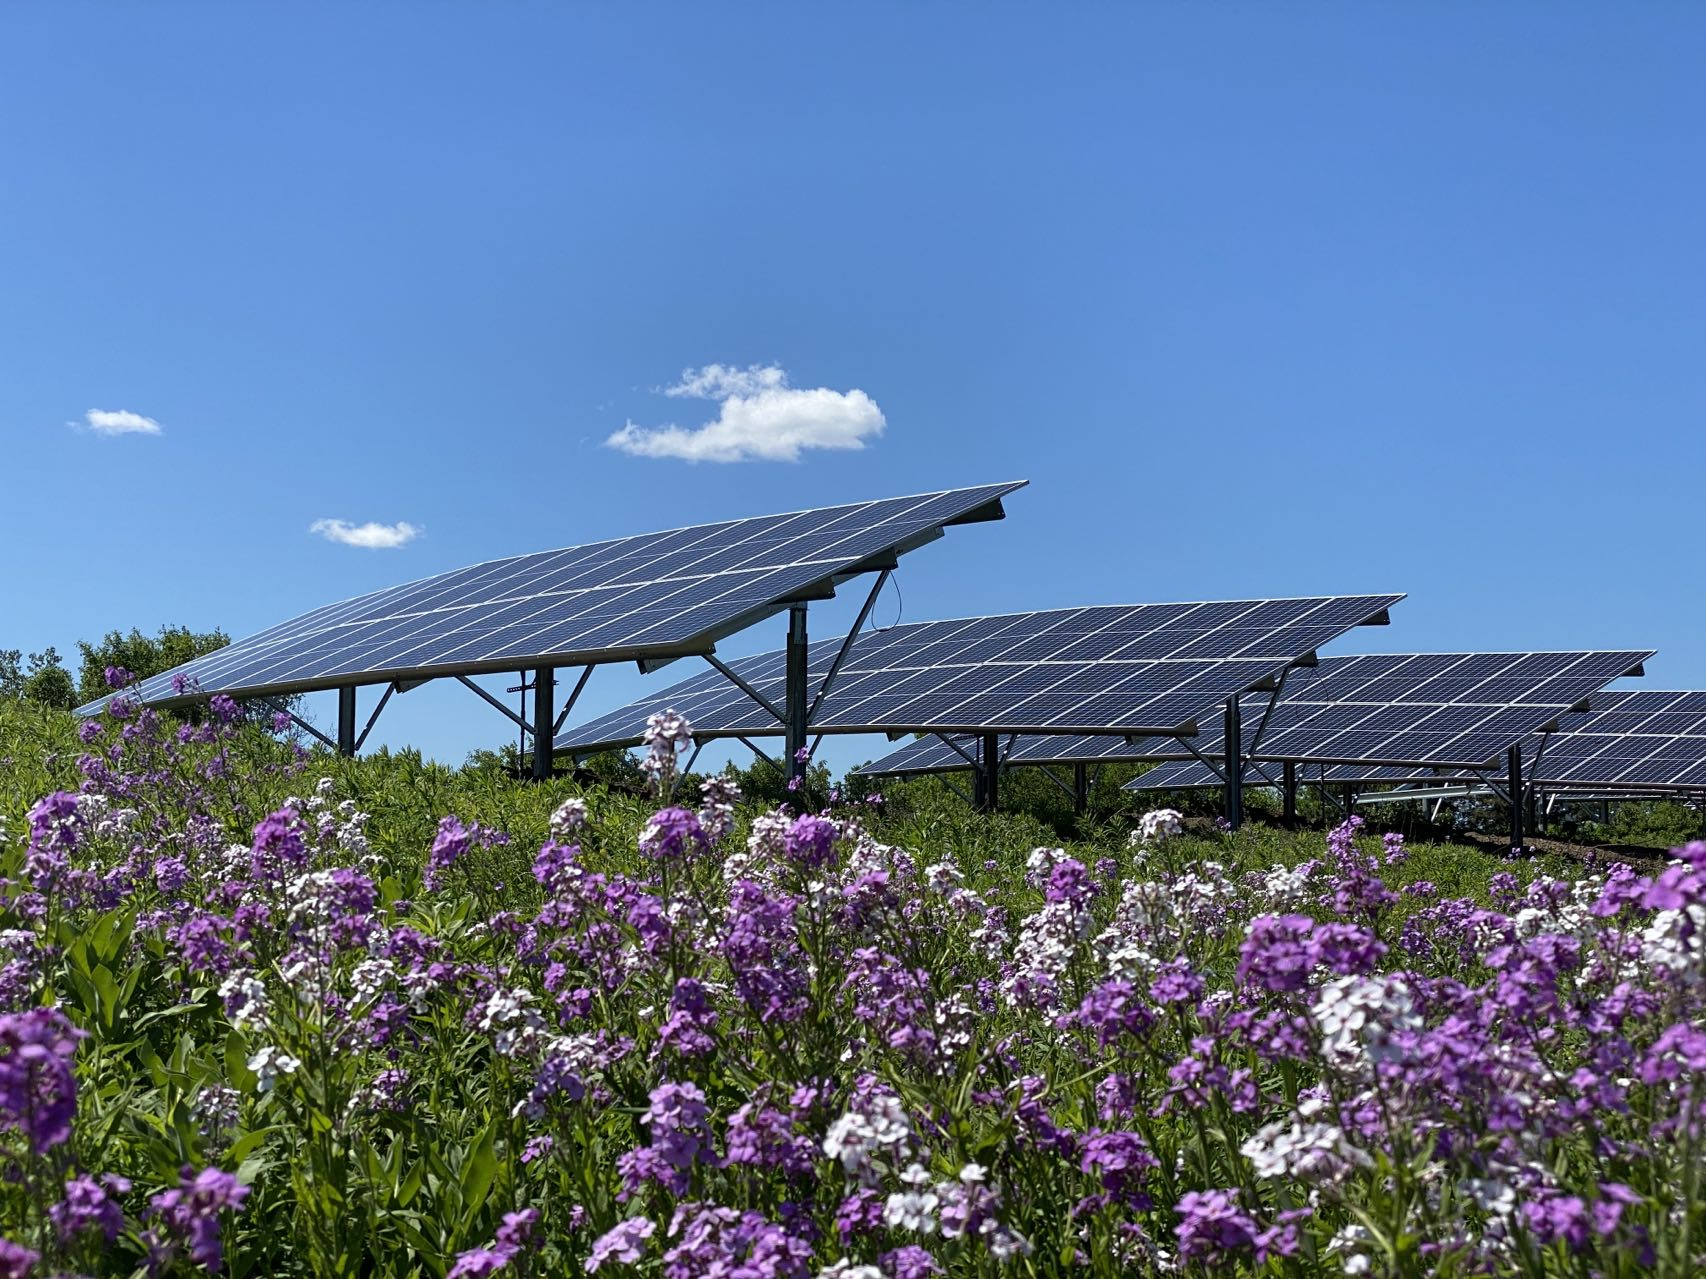
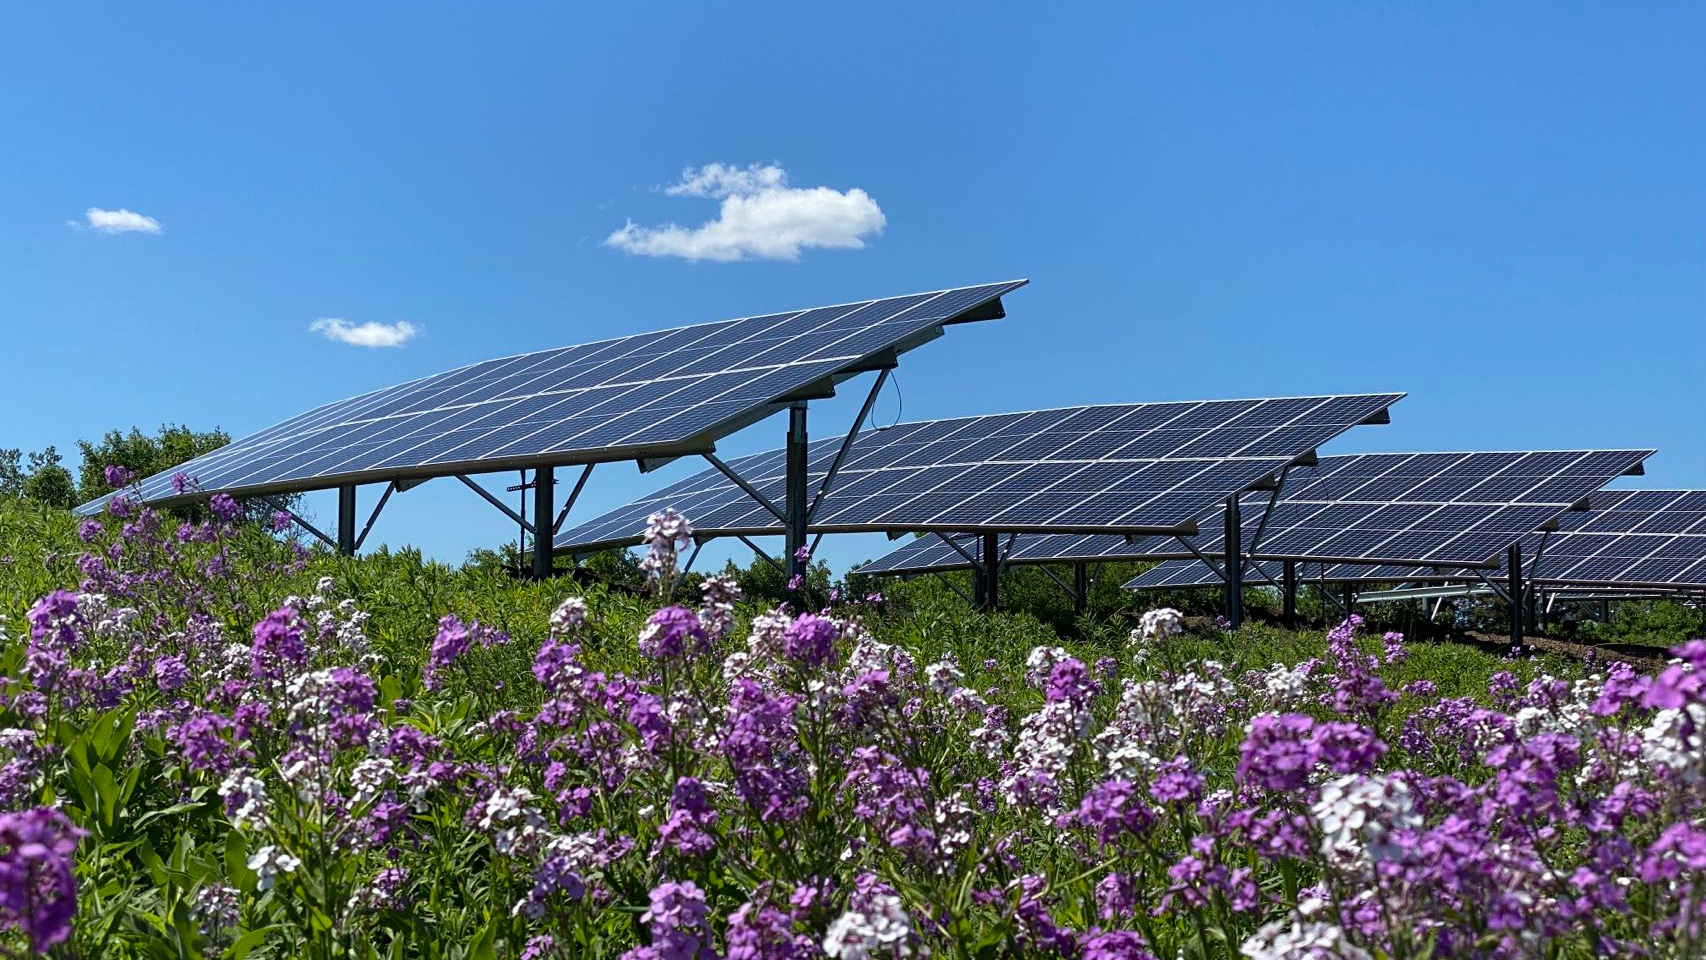
update

diff --git a/docs/research/power-systems-carbon-neutrality/index.html b/docs/research/power-systems-carbon-neutrality/index.html
@@ -6,8 +6,9 @@
 
 <meta name="viewport" content="width=device-width, initial-scale=1.0, user-scalable=yes">
 
+<meta name="description" content="Clean power system transition">
 
-<title>Deep Policy Lab - People</title>
+<title>Deep Policy Lab - Power Systems Carbon Neutrality</title>
 <style>
 code{white-space: pre-wrap;}
 span.smallcaps{font-variant: small-caps;}
@@ -23,22 +24,22 @@ ul.task-list li input[type="checkbox"] {
 </style>
 
 
-<script src="site_libs/quarto-nav/quarto-nav.js"></script>
-<script src="site_libs/quarto-nav/headroom.min.js"></script>
-<script src="site_libs/clipboard/clipboard.min.js"></script>
-<script src="site_libs/quarto-search/autocomplete.umd.js"></script>
-<script src="site_libs/quarto-search/fuse.min.js"></script>
-<script src="site_libs/quarto-search/quarto-search.js"></script>
-<meta name="quarto:offset" content="./">
-<script src="site_libs/quarto-html/quarto.js"></script>
-<script src="site_libs/quarto-html/popper.min.js"></script>
-<script src="site_libs/quarto-html/tippy.umd.min.js"></script>
-<script src="site_libs/quarto-html/anchor.min.js"></script>
-<link href="site_libs/quarto-html/tippy.css" rel="stylesheet">
-<link href="site_libs/quarto-html/quarto-syntax-highlighting.css" rel="stylesheet" id="quarto-text-highlighting-styles">
-<script src="site_libs/bootstrap/bootstrap.min.js"></script>
-<link href="site_libs/bootstrap/bootstrap-icons.css" rel="stylesheet">
-<link href="site_libs/bootstrap/bootstrap.min.css" rel="stylesheet" id="quarto-bootstrap" data-mode="light">
+<script src="../../site_libs/quarto-nav/quarto-nav.js"></script>
+<script src="../../site_libs/quarto-nav/headroom.min.js"></script>
+<script src="../../site_libs/clipboard/clipboard.min.js"></script>
+<script src="../../site_libs/quarto-search/autocomplete.umd.js"></script>
+<script src="../../site_libs/quarto-search/fuse.min.js"></script>
+<script src="../../site_libs/quarto-search/quarto-search.js"></script>
+<meta name="quarto:offset" content="../../">
+<script src="../../site_libs/quarto-html/quarto.js"></script>
+<script src="../../site_libs/quarto-html/popper.min.js"></script>
+<script src="../../site_libs/quarto-html/tippy.umd.min.js"></script>
+<script src="../../site_libs/quarto-html/anchor.min.js"></script>
+<link href="../../site_libs/quarto-html/tippy.css" rel="stylesheet">
+<link href="../../site_libs/quarto-html/quarto-syntax-highlighting.css" rel="stylesheet" id="quarto-text-highlighting-styles">
+<script src="../../site_libs/bootstrap/bootstrap.min.js"></script>
+<link href="../../site_libs/bootstrap/bootstrap-icons.css" rel="stylesheet">
+<link href="../../site_libs/bootstrap/bootstrap.min.css" rel="stylesheet" id="quarto-bootstrap" data-mode="light">
 <script id="quarto-search-options" type="application/json">{
   "location": "navbar",
   "copy-button": false,
@@ -69,12 +70,14 @@ gtag('config', 'G-TEC97F8RGK', { 'anonymize_ip': true});
 </script>
 
 
-<link rel="stylesheet" href="styles.css">
-<meta property="og:title" content="Deep Policy Lab - People">
-<meta property="og:image" content="https://drganghe.github.io/files/gang-he-profile.jpeg">
+<link rel="stylesheet" href="../../styles.css">
+<meta property="og:title" content="Deep Policy Lab - Power Systems Carbon Neutrality">
+<meta property="og:description" content="Clean power system transition">
+<meta property="og:image" content="http://deeppolicylab.github.io/research/power-systems-carbon-neutrality/featured.jpeg">
 <meta property="og:site-name" content="Deep Policy Lab">
-<meta name="twitter:title" content="Deep Policy Lab - People">
-<meta name="twitter:image" content="https://drganghe.github.io/files/gang-he-profile.jpeg">
+<meta name="twitter:title" content="Deep Policy Lab - Power Systems Carbon Neutrality">
+<meta name="twitter:description" content="Clean power system transition">
+<meta name="twitter:image" content="http://deeppolicylab.github.io/research/power-systems-carbon-neutrality/featured.jpeg">
 <meta name="twitter:card" content="summary_large_image">
 </head>
 
@@ -85,7 +88,7 @@ gtag('config', 'G-TEC97F8RGK', { 'anonymize_ip': true});
     <nav class="navbar navbar-expand-lg navbar-dark ">
       <div class="navbar-container container-fluid">
       <div class="navbar-brand-container">
-    <a class="navbar-brand" href="./index.html">
+    <a class="navbar-brand" href="../../index.html">
     <span class="navbar-title">Deep Policy Lab</span>
     </a>
   </div>
@@ -96,19 +99,19 @@ gtag('config', 'G-TEC97F8RGK', { 'anonymize_ip': true});
           <div class="collapse navbar-collapse" id="navbarCollapse">
             <ul class="navbar-nav navbar-nav-scroll me-auto">
   <li class="nav-item">
-    <a class="nav-link" href="./about.html" rel="" target="">
+    <a class="nav-link" href="../../about.html" rel="" target="">
  <span class="menu-text">About</span></a>
   </li>  
   <li class="nav-item">
-    <a class="nav-link active" href="./people.html" rel="" target="" aria-current="page">
+    <a class="nav-link" href="../../people.html" rel="" target="">
  <span class="menu-text">People</span></a>
   </li>  
   <li class="nav-item">
-    <a class="nav-link" href="./research.html" rel="" target="">
+    <a class="nav-link" href="../../research.html" rel="" target="">
  <span class="menu-text">Research</span></a>
   </li>  
   <li class="nav-item">
-    <a class="nav-link" href="./support.html" rel="" target="">
+    <a class="nav-link" href="../../support.html" rel="" target="">
  <span class="menu-text">Support</span></a>
   </li>  
 </ul>
@@ -144,9 +147,8 @@ gtag('config', 'G-TEC97F8RGK', { 'anonymize_ip': true});
     <h2 id="toc-title">On this page</h2>
    
   <ul>
-  <li><a href="#director" id="toc-director" class="nav-link active" data-scroll-target="#director">Director</a></li>
-  <li><a href="#researchers" id="toc-researchers" class="nav-link" data-scroll-target="#researchers">Researchers</a></li>
-  <li><a href="#collaborators" id="toc-collaborators" class="nav-link" data-scroll-target="#collaborators">Collaborators</a></li>
+  <li><a href="#overview" id="toc-overview" class="nav-link active" data-scroll-target="#overview">Overview</a></li>
+  <li><a href="#featured-publications" id="toc-featured-publications" class="nav-link" data-scroll-target="#featured-publications">Featured publications</a></li>
   </ul>
 </nav>
     </div>
@@ -155,9 +157,14 @@ gtag('config', 'G-TEC97F8RGK', { 'anonymize_ip': true});
 
 <header id="title-block-header" class="quarto-title-block default">
 <div class="quarto-title">
-<h1 class="title">People</h1>
+<h1 class="title">Power Systems Carbon Neutrality</h1>
 </div>
 
+<div>
+  <div class="description">
+    Clean power system transition
+  </div>
+</div>
 
 
 <div class="quarto-title-meta">
@@ -170,95 +177,27 @@ gtag('config', 'G-TEC97F8RGK', { 'anonymize_ip': true});
 
 </header>
 
-<section id="director" class="level2">
-<h2 class="anchored" data-anchor-id="director">Director</h2>
-<div class="grid">
-<!--Lecture 1-2-->
-<div class="g-col-12 g-col-md-4">
-<p><img src="https://drganghe.github.io/files/gang-he-profile.jpeg" class="img-fluid"></p>
-<center>
-<a href="https://drganghe.github.io">Gang He</a>
-</center>
-</div>
-</div>
+<p><img src="featured.jpeg" class="img-fluid"></p>
+<section id="overview" class="level2">
+<h2 class="anchored" data-anchor-id="overview">Overview</h2>
+<p>Electrifying energy, and decarbonizing electricity. Power system is at the center of global energy transtion. This research theme explores the pathways and their environmental, climate, human health, and socio-economic implications.</p>
 </section>
-<section id="researchers" class="level2">
-<h2 class="anchored" data-anchor-id="researchers">Researchers</h2>
-<div class="grid">
-<!--Lecture 1-2-->
-<div class="g-col-12 g-col-md-4">
-<p><img src="./files/images/we-need-you.png" class="img-fluid"></p>
-<center>
-<a href="https://drganghe.github.io/posts/2023-05-post-doc-supply-chain-power-system-environment-human-health/">You</a>
-</center>
-</div>
-</div>
-</section>
-<section id="collaborators" class="level2">
-<h2 class="anchored" data-anchor-id="collaborators">Collaborators</h2>
-<div class="grid">
-<div class="g-col-12 g-col-md-4">
-<div class="quarto-figure quarto-figure-center">
-<figure class="figure">
-<p><img src="https://gps.ucsd.edu/_images/people/faculty/faculty_davidson.jpg" style="height:2.77778in" class="figure-img"></p>
-</figure>
-</div>
-<center>
-<a href="https://gps.ucsd.edu/faculty-directory/michael-davidson.html">Michael Davidson</a>
-</center>
-</div>
-<div class="g-col-12 g-col-md-4">
-<div class="quarto-figure quarto-figure-center">
-<figure class="figure">
-<p><img src="https://avatars.githubusercontent.com/u/9012994?v=4.png" style="height:2.77778in" class="figure-img"></p>
-</figure>
-</div>
-<center>
-<a href="https://www.jhelvy.com/">John Helveston</a>
-</center>
-</div>
-<div class="g-col-12 g-col-md-4">
-<div class="quarto-figure quarto-figure-center">
-<figure class="figure">
-<p><img src="https://eta-intranet.lbl.gov/sites/default/files/styles/staff_public_photo_336x_480/public/user-photos/dsc05635-edit.jpg?itok=mTRQ12QR" style="height:2.77778in" class="figure-img"></p>
-</figure>
-</div>
-<center>
-<a href="https://eta.lbl.gov/people/liqun-peng-0">Liqun Peng</a>
-</center>
-</div>
-</div>
-<!--
-## Advisors
-
-::: {.grid}
-
-::: {.g-col-12 .g-col-md-4}
-
-![](https://kammen.berkeley.edu/images/Kammen_solar.jpg){height="200pt" fig-align="center"}
-
-<center>[Daniel Kammen](https://kammen.berkeley.edu/)</center>
-
-:::
-
-::: {.g-col-12 .g-col-md-4}
-
-![](https://are.berkeley.edu/sites/are.berkeley.edu/files/styles/user_big_picture/public/pictures/picture-13749-1602716599.jpg?itok=i8mLR_AR){fig-align="center"}
-
-<center>[Jiang Lin](https://are.berkeley.edu/users/jiang-lin)</center>
-
-:::
-
-::: {.g-col-12 .g-col-md-4}
-
-![](https://cee.princeton.edu/sites/g/files/toruqf2216/files/styles/3x4_750w_1000h/public/people/mauzerall.jpg?itok=ilA0fH9K){height="200pt" fig-align="center"}
-
-<center>[Denise L. Mauzerall](https://mauzerall.scholar.princeton.edu/)</center>
-
-:::
-
-:::
+<section id="featured-publications" class="level2">
+<h2 class="anchored" data-anchor-id="featured-publications">Featured publications</h2>
+<p><strong>He, Gang</strong>*, Jiang Lin*, Froylan Sifuentes, Xu Liu, Nikit Abhyankar, and Amol Phadke*. 2020. <a href="https://www.nature.com/articles/s41467-020-16184-x">Rapid Cost Decrease of Renewables and Storage Accelerates the Decarbonization of China’s Power System</a>. <em>Nature Communications</em> 11 (1): 2486. doi: <a href="https://doi.org/10.1038/s41467-020-16184-x">10.1038/s41467-020-16184-x</a>. [<a href="https://www.nature.com/articles/s41467-020-16184-x.pdf">pdf</a>]</p>
+<p>Lin, Jiang*, Nikit Abhyankar, <strong>Gang He</strong>, Xu Liu, and Shengfei Yin. 2022. <a href="https://www.cell.com/iscience/fulltext/S2589-0042(22)00019-0">Large Balancing Areas and Dispersed Renewable Investment Enhances Grid Flexibility in a Renewable-Dominant Power System in China</a>. <em>iScience</em> 25(2): 103749. doi: <a href="https://doi.org/10.1016/j.isci.2022.103749">10.1016/j.isci.2022.103749</a>. [<a href="https://www.cell.com/action/showPdf?pii=S2589-0042%2822%2900019-0">pdf</a>]</p>
+<p>Li, Bo, Minyou Chen*, Ziming Ma, <strong>Gang He</strong>, Wei Dai, Dongran Liu, Chi Zhang, and Haiwang Zhong. 2022. <a href="../../posts/2022-04-ieeetia-hydrogen-integrated-power-and-transport/index.qmd">Modelling Integrated Power and Transportation Sectors Decarbonization with Hydrogen Energy Storage</a>. <em>IEEE Transactions on Industry Applications</em> 58(2): 2677–2693. doi: <a href="https://doi.org/10.1109/TIA.2021.3116916">10.1109/TIA.2021.3116916</a>. [<a href="https://drganghe.github.io/files/papers/2022-IEEE-ModelingIntegratedPowerAndTransportationSystems.pdf">pdf</a>]</p>
+<p><strong>He, Gang</strong>*, Anne-Perrine Avrin, James H. Nelson, Josiah Johnston, Ana Mileva, Jianwei Tian, and Daniel M. Kammen*. 2016. <a href="http://pubs.acs.org/doi/abs/10.1021/acs.est.6b01345">SWITCH-China:A Systems Approach to Decarbonizing China’s Power System</a>. <em>Environmental Science and Technology</em> 50(11): 5467–5473. doi: <a href="http://dx.doi.org/10.1021/acs.est.6b01345">10.1021/acs.est.6b01345</a>. [<a href="https://drganghe.github.io/files/papers/2016-EST-SWITCH-China.pdf">pdf</a>]</p>
+<!--Include social share buttons-->
+<!-- 
+AddToAny check more: https://www.addtoany.com/buttons/for/website 
+Using includes will make edits easier, will only need to add or remove button here if needed.
+https://quarto.org/docs/authoring/includes.html
 -->
+<div class="a2a_kit a2a_kit_size_32 a2a_default_style">
+<p><a class="a2a_dd" href="https://www.addtoany.com/share"></a> <a class="a2a_button_twitter"></a> <a class="a2a_button_linkedin"></a> <a class="a2a_button_mastodon"></a> <a class="a2a_button_facebook"></a> <a class="a2a_button_email"></a></p>
+</div>
+<script async="" src="https://static.addtoany.com/menu/page.js"></script>
 
 
 </section>

diff --git a/docs/research/clean-energy-supply-chains/index.html b/docs/research/clean-energy-supply-chains/index.html
@@ -148,6 +148,7 @@ gtag('config', 'G-TEC97F8RGK', { 'anonymize_ip': true});
    
   <ul>
   <li><a href="#overview" id="toc-overview" class="nav-link active" data-scroll-target="#overview">Overview</a></li>
+  <li><a href="#featured-publications" id="toc-featured-publications" class="nav-link" data-scroll-target="#featured-publications">Featured publications</a></li>
   </ul>
 </nav>
     </div>
@@ -179,8 +180,11 @@ gtag('config', 'G-TEC97F8RGK', { 'anonymize_ip': true});
 <p><img src="featured.jpeg" class="img-fluid"></p>
 <section id="overview" class="level2">
 <h2 class="anchored" data-anchor-id="overview">Overview</h2>
-<p>Achieving carbon neutrality requires deploying renewable energy at unprecedented speed and scale, yet countries sometimes implement decoupling policies that might impede continuous cost declining. International climate policy and renewable energy deployment policy now face a crossroads: continue relying on global supply chains, or pivot towards domestic technology development and production.</p>
-<p>This project will evaluate the carbon mitigation, air quality, and human health benefits achieved by global clean energy supply chains, using solar PV, a globally trade clean energy product, as an example. This project will be one of a series of evidence-based research and analysis to show the importance to maintain a sustainable and resilient clean energy global supply chains to achieve climate goals.</p>
+<p>This research theme aims at evidence-based analysis to understand the importance of a sustainable and resilient clean energy global supply chains to achieve climate goals. We evaluate the economic costs, carbon mitigation, air quality, and human health benefits achieved by global clean energy supply chains.</p>
+</section>
+<section id="featured-publications" class="level2">
+<h2 class="anchored" data-anchor-id="featured-publications">Featured publications</h2>
+<p>John Helveston, <strong>Gang He</strong>*, and Michael Davidson. 2022. <a href="https://www.nature.com/articles/s41586-022-05316-6">Quantifying the Cost Savings of Global Solar Photovoltaic Supply Chains</a>. <em>Nature</em> 612: 83–87. doi: <a href="https://doi.org/10.1038/s41586-022-05316-6">10.1038/s41586-022-05316-6</a>. [<a href="https://drganghe.github.io/files/papers/2022-nature-solar-supply-chains-preprint.pdf">pdf</a>]</p>
 <!--Include social share buttons-->
 <!-- 
 AddToAny check more: https://www.addtoany.com/buttons/for/website 

diff --git a/docs/research.html b/docs/research.html
@@ -105,11 +105,11 @@ gtag('config', 'G-TEC97F8RGK', { 'anonymize_ip': true});
 <link rel="stylesheet" href="styles.css">
 <link rel="alternate" type="application/rss+xml" title="Deep Policy Lab" href="research.xml"><meta property="og:title" content="Deep Policy Lab - Research">
 <meta property="og:description" content="What we do">
-<meta property="og:image" content="http://deeppolicylab.github.io/research/clean-energy-supply-chains/featured.jpeg">
+<meta property="og:image" content="http://deeppolicylab.github.io/research/power-systems-carbon-neutrality/featured.jpeg">
 <meta property="og:site-name" content="Deep Policy Lab">
 <meta name="twitter:title" content="Deep Policy Lab - Research">
 <meta name="twitter:description" content="What we do">
-<meta name="twitter:image" content="http://deeppolicylab.github.io/research/clean-energy-supply-chains/featured.jpeg">
+<meta name="twitter:image" content="http://deeppolicylab.github.io/research/power-systems-carbon-neutrality/featured.jpeg">
 <meta name="twitter:card" content="summary_large_image">
 </head>
 
@@ -204,7 +204,29 @@ gtag('config', 'G-TEC97F8RGK', { 'anonymize_ip': true});
 
 <div class="quarto-listing quarto-listing-container-grid" id="listing-listing">
 <div class="list grid quarto-listing-cols-2">
-<div class="g-col-1" data-index="0" data-listing-file-modified-sort="1684854625591" data-listing-reading-time-sort="1">
+<div class="g-col-1" data-index="0" data-listing-file-modified-sort="1686160837506" data-listing-reading-time-sort="1">
+<a href="./research/power-systems-carbon-neutrality/index.html" class="quarto-grid-link">
+<div class="quarto-grid-item card h-100 card-left">
+<p class="card-img-top">
+<img src="./research/power-systems-carbon-neutrality/featured.jpeg" class="thumbnail-image card-img" style="height: 150px;">
+</p>
+<div class="card-body post-contents">
+<h5 class="no-anchor card-title listing-title">
+Power Systems Carbon Neutrality
+</h5>
+<div class="card-text listing-description">
+Clean power system transition
+</div>
+<div class="card-attribution card-text-small start">
+<div class="listing-author">
+
+</div>
+</div>
+</div>
+</div>
+</a>
+</div>
+<div class="g-col-1" data-index="1" data-listing-file-modified-sort="1686160364068" data-listing-reading-time-sort="1">
 <a href="./research/clean-energy-supply-chains/index.html" class="quarto-grid-link">
 <div class="quarto-grid-item card h-100 card-left">
 <p class="card-img-top">
